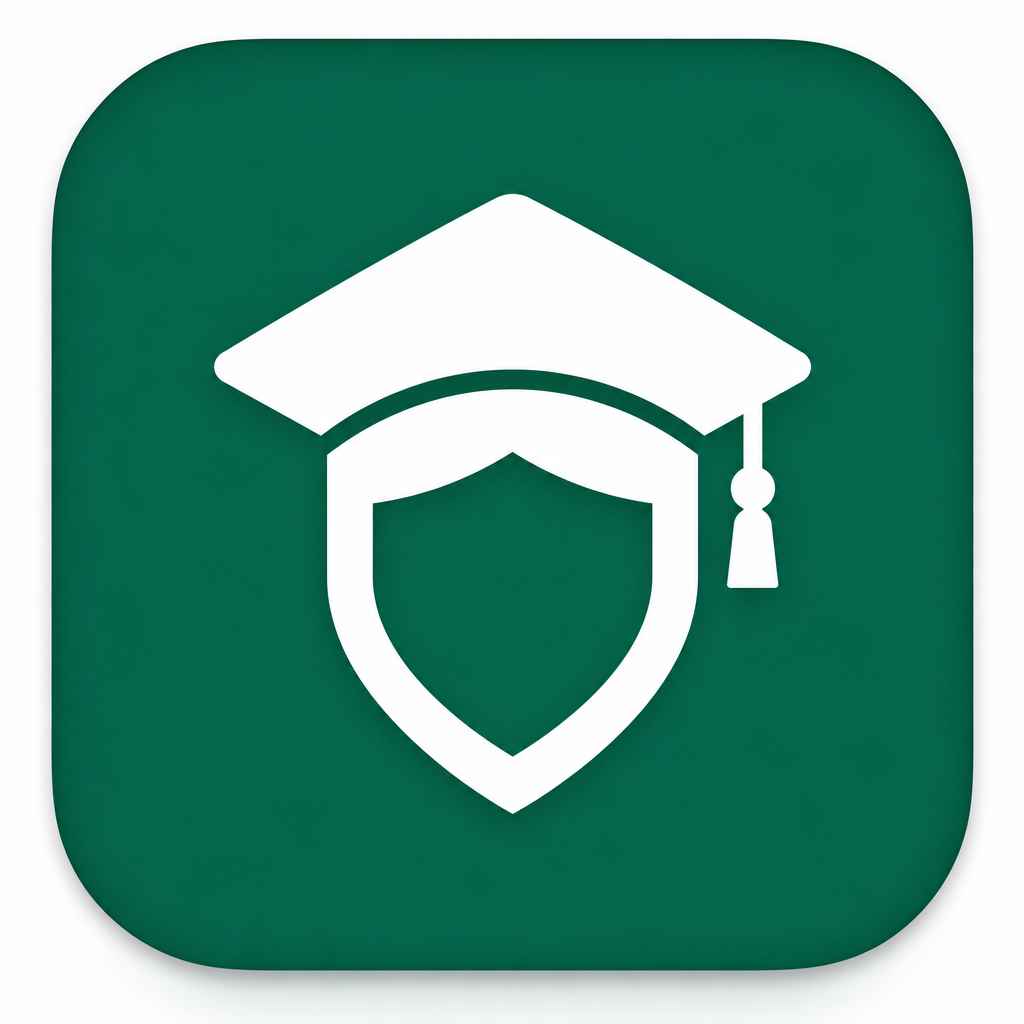
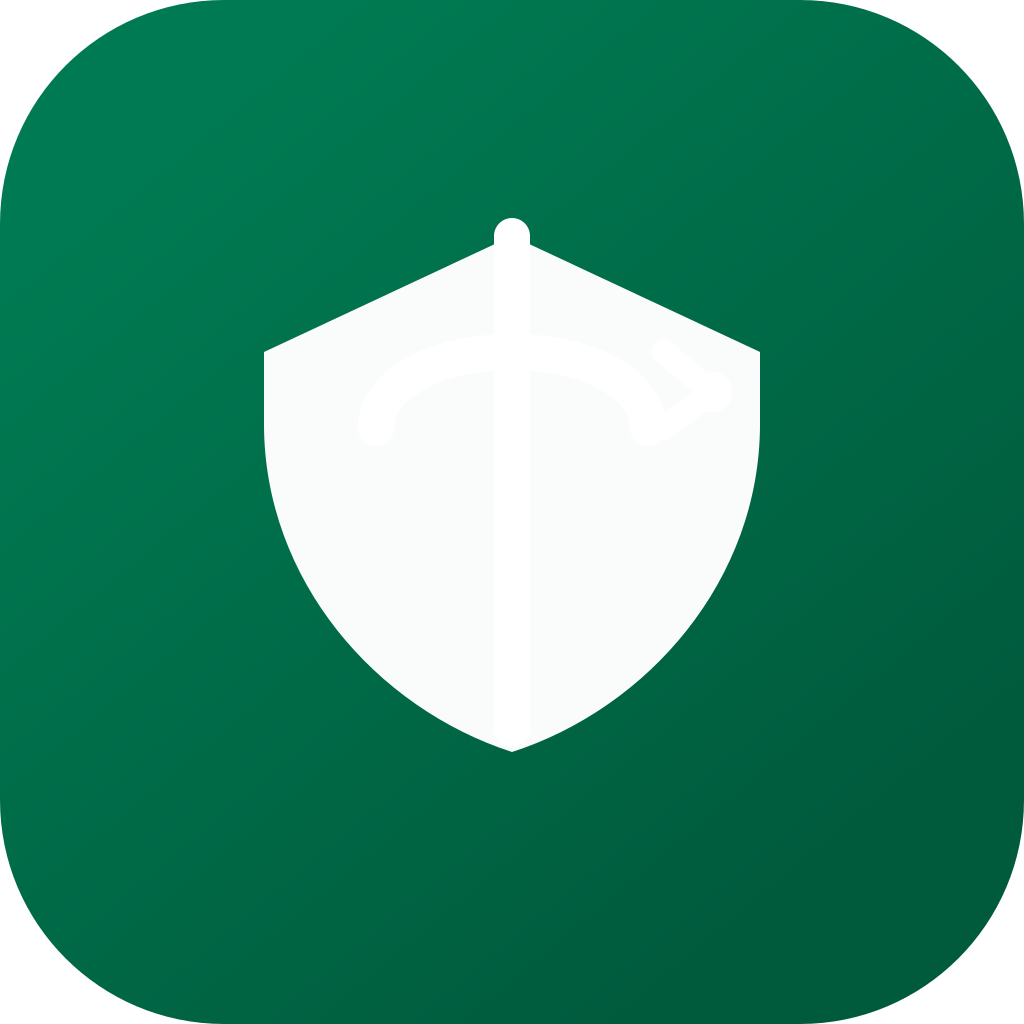
refactor(brand): use transparent mark only with separate wordmark text
Replace text-baked logo lockup with cap-shield SVG mark on transparent corners, SchoolOsBrand pairs icon with live text, and export rgba png for mobile and favicons.

diff --git a/apps/web/src/modules/landing/components/site-header.tsx b/apps/web/src/modules/landing/components/site-header.tsx
@@ -2,7 +2,7 @@
 
 import { ArrowDown01Icon, Cancel01Icon, Menu01Icon } from "@hugeicons/core-free-icons";
 import { HugeiconsIcon } from "@hugeicons/react";
-import { SchoolOsLogo } from "@school-os/ui";
+import { SchoolOsBrand } from "@school-os/ui";
 import { AnimatePresence, LayoutGroup, motion, useReducedMotion } from "motion/react";
 import Link from "next/link";
 import { useId, useState } from "react";
@@ -35,7 +35,7 @@ export function SiteHeader() {
 						href="/"
 						className="flex shrink-0 items-center rounded-lg px-1 outline-none focus-visible:ring-2 focus-visible:ring-foreground/30"
 					>
-						<SchoolOsLogo className="h-6 sm:h-7" />
+						<SchoolOsBrand markClassName="size-7 sm:size-8" nameClassName="text-base sm:text-lg" />
 					</Link>
 
 					<nav className="-translate-x-1/2 absolute left-1/2 hidden items-center gap-0.5 lg:flex">

diff --git a/apps/docs/src/lib/layout.shared.tsx b/apps/docs/src/lib/layout.shared.tsx
@@ -1,4 +1,4 @@
-import { SchoolOsLogo } from "@school-os/ui";
+import { SchoolOsBrand } from "@school-os/ui";
 import type { BaseLayoutProps } from "fumadocs-ui/layouts/shared";
 import Link from "next/link";
 import { gitConfig } from "./shared";
@@ -7,9 +7,11 @@ export function baseOptions(): BaseLayoutProps {
 	return {
 		nav: {
 			title: (
-				<Link href="/docs" className="flex items-center gap-2 font-semibold">
-					<SchoolOsLogo className="h-6" />
-					<span className="text-fd-muted-foreground font-medium text-sm">Docs</span>
+				<Link
+					href="/docs"
+					className="rounded-lg outline-none focus-visible:ring-2 focus-visible:ring-fd-ring"
+				>
+					<SchoolOsBrand name="School OS Docs" nameClassName="text-base" />
 				</Link>
 			),
 		},

diff --git a/packages/ui/src/components/school-os-mark.tsx b/packages/ui/src/components/school-os-mark.tsx
@@ -5,9 +5,10 @@ type SchoolOsMarkProps = {
 	src?: string;
 };
 
-export function SchoolOsMark({ className, src = "/brand/school-os-mark.png" }: SchoolOsMarkProps) {
+/** Icon-only mark — transparent SVG/PNG, no wordmark text. */
+export function SchoolOsMark({ className, src = "/brand/school-os-mark.svg" }: SchoolOsMarkProps) {
 	return (
-		// biome-ignore lint/performance/noImgElement: brand PNG from public/; shared outside Next Image
-		<img src={src} alt="" className={cn("size-7 shrink-0 rounded-lg", className)} />
+		// biome-ignore lint/performance/noImgElement: transparent brand PNG from public/
+		<img src={src} alt="" width={28} height={28} className={cn("size-7 shrink-0", className)} />
 	);
 }

diff --git a/packages/ui/src/components/school-os-brand.tsx b/packages/ui/src/components/school-os-brand.tsx
@@ -1,0 +1,26 @@
+import { cn } from "../lib/utils";
+import { SchoolOsMark } from "./school-os-mark";
+
+type SchoolOsBrandProps = {
+	className?: string;
+	markClassName?: string;
+	name?: string;
+	nameClassName?: string;
+};
+
+/** Mark icon + separate wordmark text (text is not baked into the image). */
+export function SchoolOsBrand({
+	className,
+	markClassName,
+	name = "School OS",
+	nameClassName,
+}: SchoolOsBrandProps) {
+	return (
+		<span className={cn("inline-flex items-center gap-2.5", className)}>
+			<SchoolOsMark className={markClassName} />
+			<span className={cn("font-semibold text-foreground tracking-tight", nameClassName)}>
+				{name}
+			</span>
+		</span>
+	);
+}

diff --git a/apps/web/src/modules/landing/components/site-footer.tsx b/apps/web/src/modules/landing/components/site-footer.tsx
@@ -1,6 +1,6 @@
 "use client";
 
-import { SchoolOsLogo } from "@school-os/ui";
+import { SchoolOsBrand } from "@school-os/ui";
 import Link from "next/link";
 import type { FormEvent } from "react";
 import { useState } from "react";
@@ -35,7 +35,7 @@ export function SiteFooter() {
 			<div className="mx-auto w-full max-w-6xl px-4 pt-16 pb-8 sm:px-8">
 				<div className="grid gap-12 lg:grid-cols-[1.4fr_2fr]">
 					<div className="flex flex-col">
-						<SchoolOsLogo className="h-7" />
+						<SchoolOsBrand nameClassName="text-xl" />
 						<p className="mt-3 max-w-xs text-muted-foreground text-sm leading-6">
 							{SITE.description}
 						</p>

diff --git a/packages/ui/src/index.ts b/packages/ui/src/index.ts
@@ -82,7 +82,7 @@ export {
 	InputGroupTextarea,
 } from "./components/input-group";
 export { Label } from "./components/label";
-export { SchoolOsLogo } from "./components/school-os-logo";
+export { SchoolOsBrand } from "./components/school-os-brand";
 export { SchoolOsMark } from "./components/school-os-mark";
 export {
 	Select,

diff --git a/apps/web/src/app/landing/layout.tsx b/apps/web/src/app/landing/layout.tsx
@@ -28,7 +28,7 @@ export const metadata: Metadata = {
 	openGraph: {
 		title: SITE.title,
 		description: SITE.description,
-		images: [{ url: "/brand/school-os-logo.png", alt: "School OS" }],
+		images: [{ url: "/brand/school-os-mark.png", alt: "School OS" }],
 	},
 };
 
